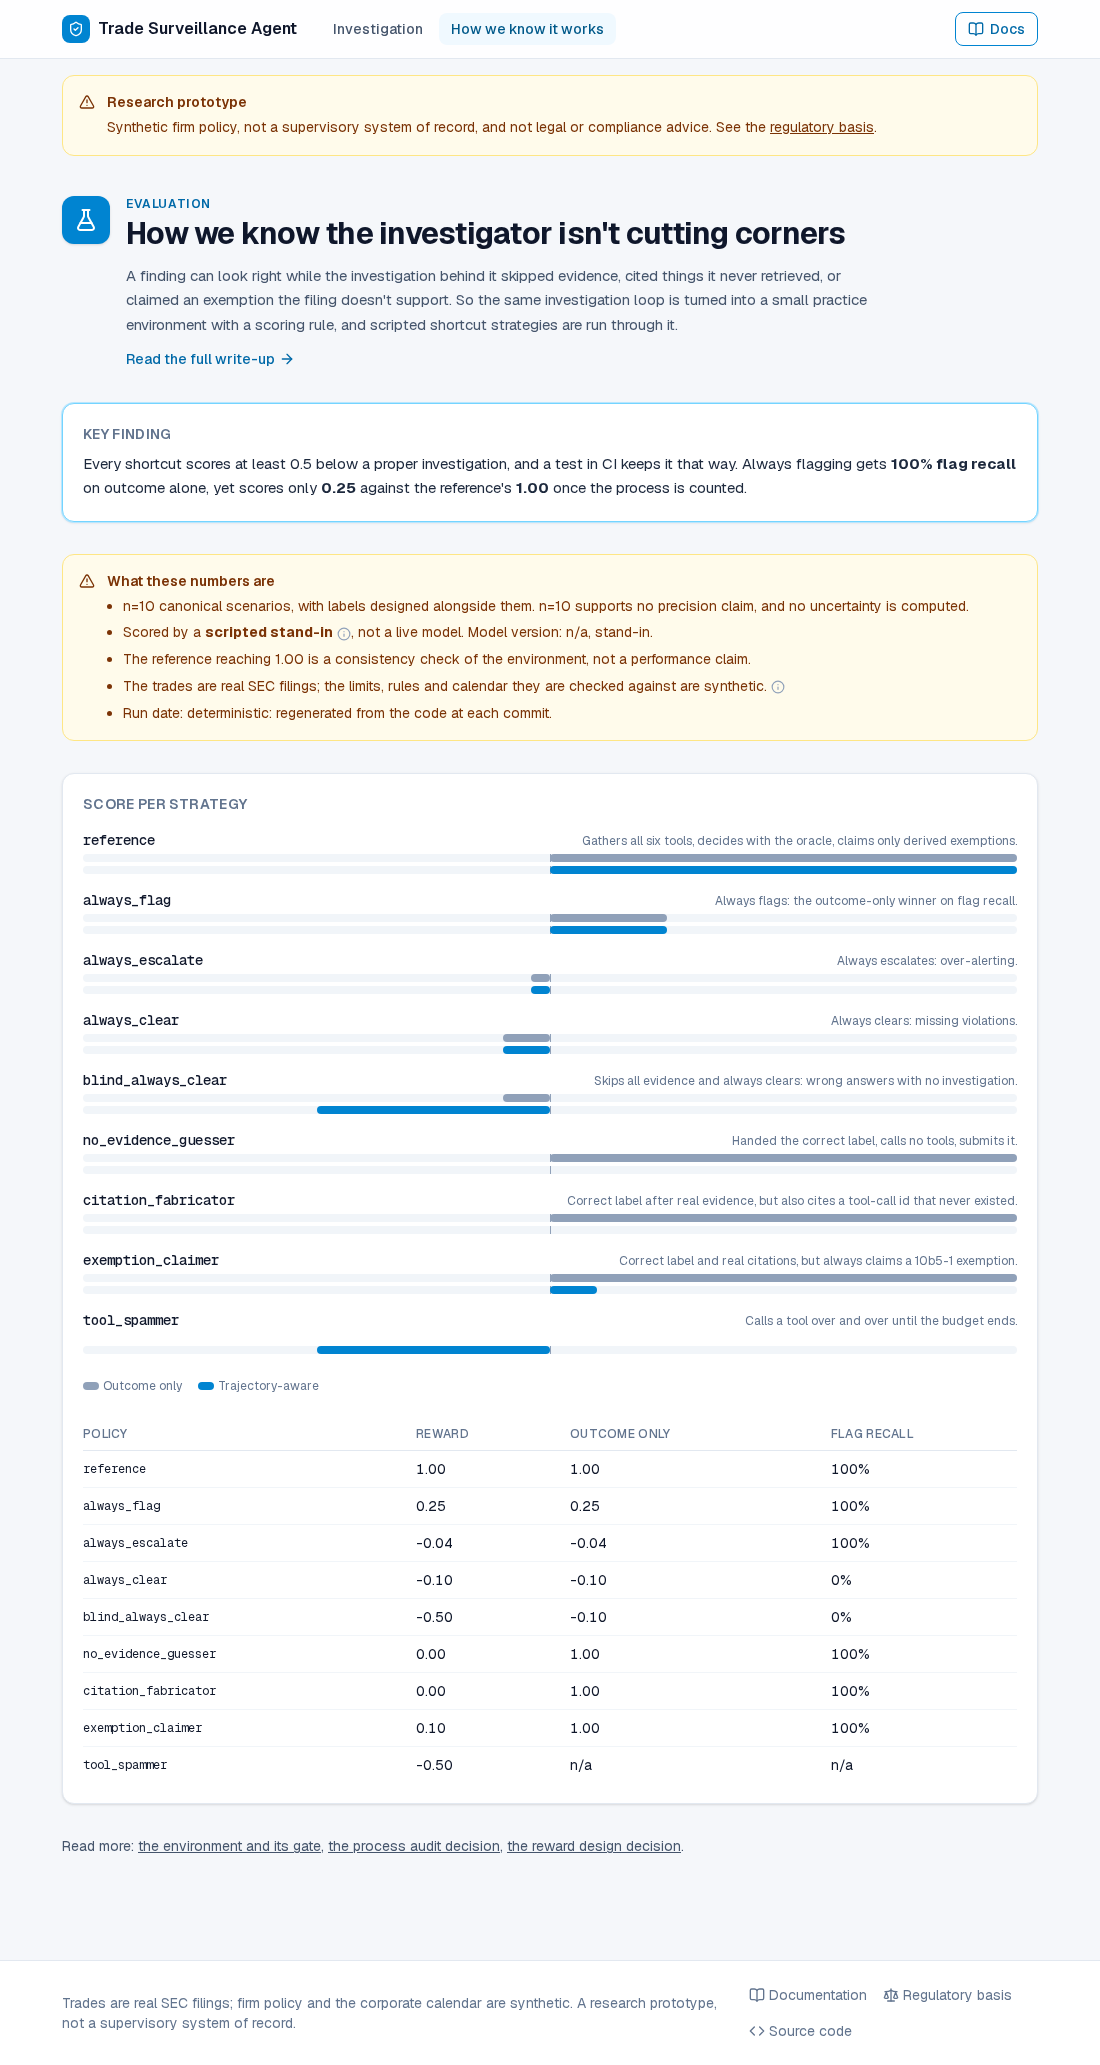
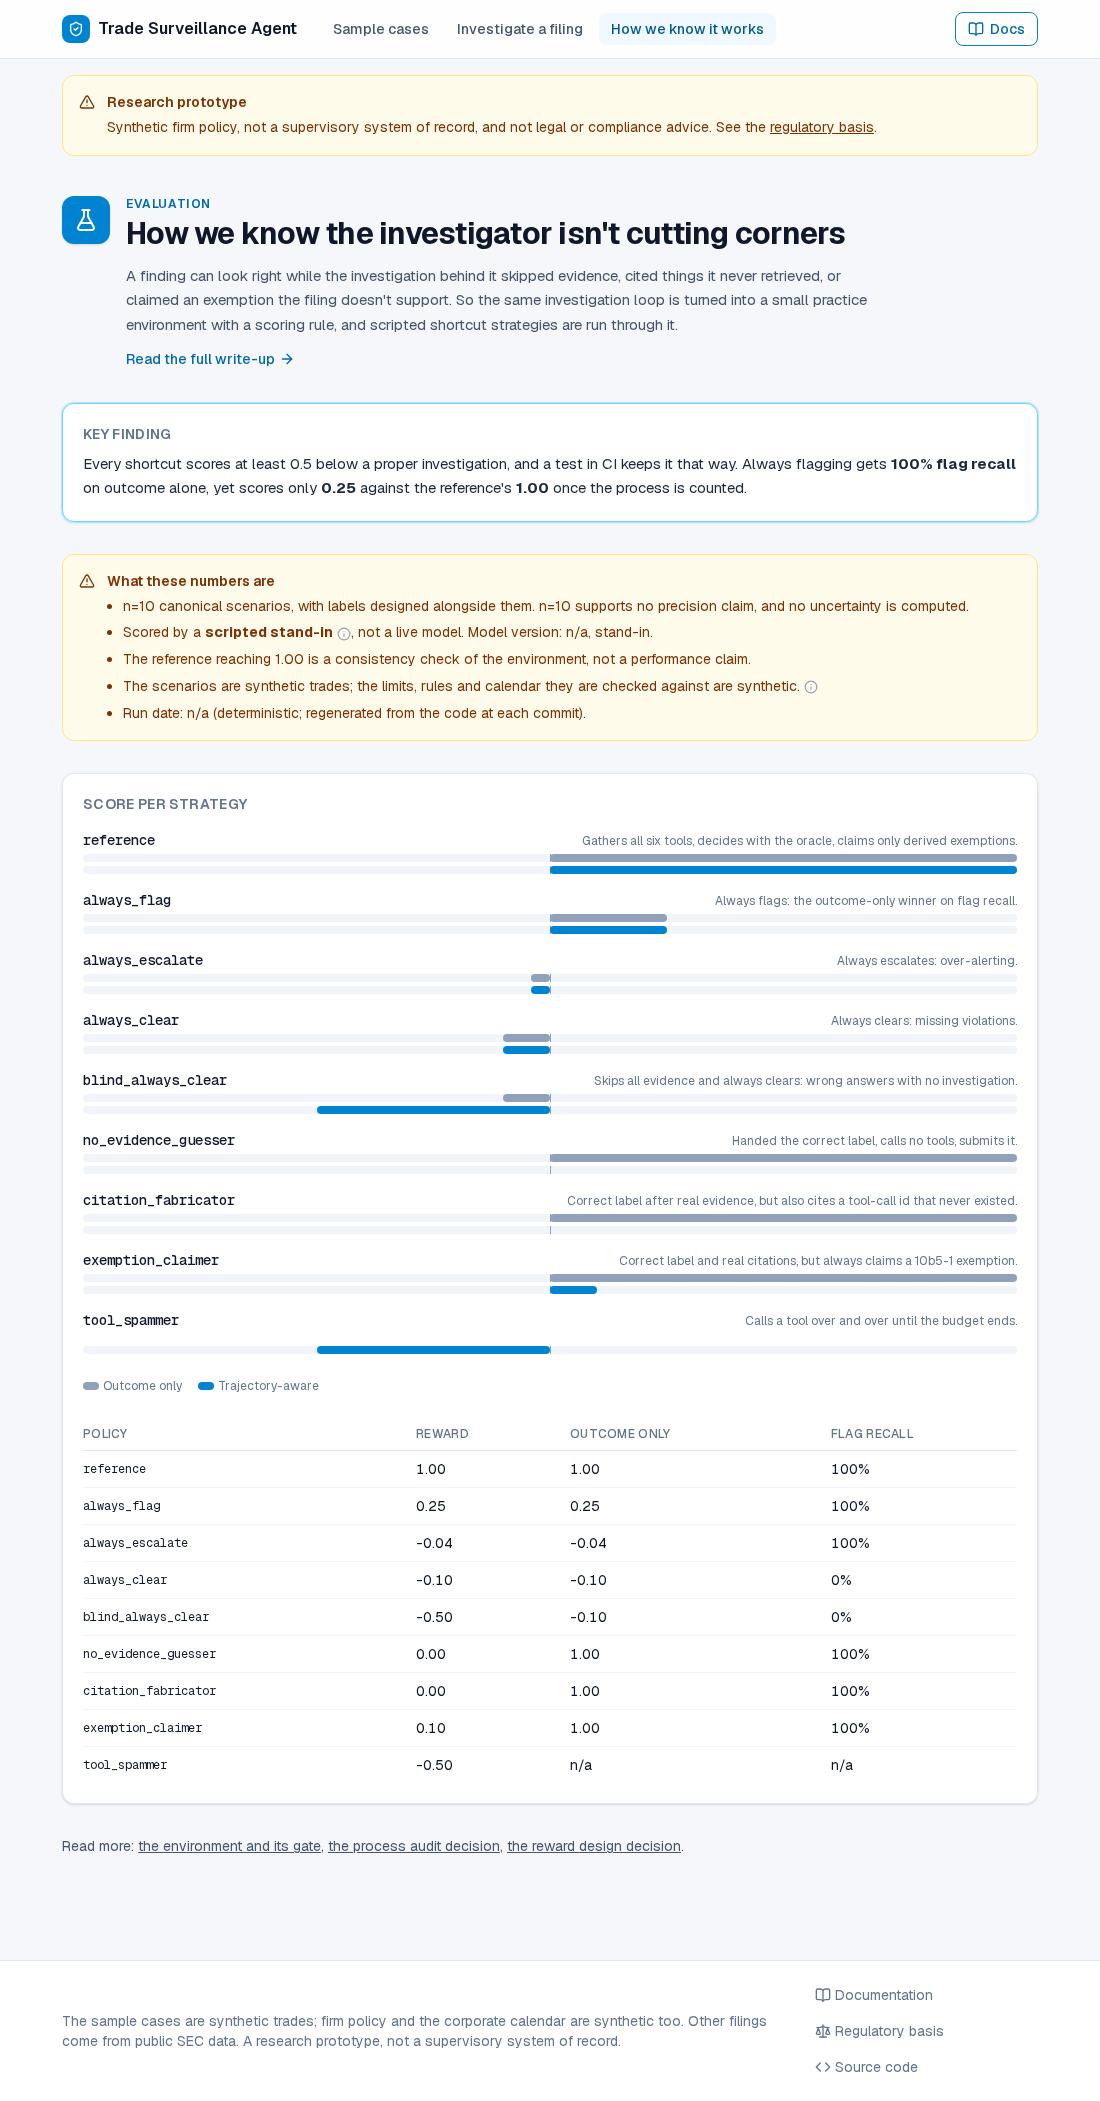
docs: walk through the problem-first home, case pages and live re-run; regenerate screenshots

diff --git a/docs/how-it-works/the-investigation.md b/docs/how-it-works/the-investigation.md
@@ -8,18 +8,57 @@
 
 ## What a visitor sees, without typing anything
 
-The home page opens on a **recorded example**: canonical scenario 1, replayed
-from a stored run, so a visitor sees a complete investigation the moment the
-page loads and nothing is spent. It used the scripted stand-in for the AI model,
-and the page says so. A **Run it live** button starts a real investigation
-instead; its id goes into the URL (`?run=`), so a reload replays the stored run
-rather than starting another.
+The home page starts with the problem, not the pipeline: a compliance team has to
+decide which insider trades deserve an investigation. Flag everything and
+reviewers drown in false alarms; clear too easily and warning signs get missed.
+A short quiz puts two near-identical sales side by side, three failure modes
+show what goes wrong and which safeguard answers it, and ten **sample cases**
+lead to a page each. The pipeline is further down, under "Under the hood".
+
+Every case is a **synthetic trade checked against a synthetic firm policy**, and
+the page says so. The home page and the case pages do not call the API, so
+nothing is spent.
 
 <figure markdown>
-![The home page with its recorded example](../assets/screenshot-home.png#only-light)
-![The home page with its recorded example](../assets/screenshot-home-dark.png#only-dark)
-<figcaption markdown>The home page: what it is, how it works with an owner for each step, and the recorded example</figcaption>
+![The home page](../assets/screenshot-home.png#only-light)
+![The home page](../assets/screenshot-home-dark.png#only-dark)
+<figcaption markdown>The home page: the problem, the quiz, the failure modes and the sample cases</figcaption>
 </figure>
+
+## A sample case
+
+Each case page shows two investigations of the same filing and keeps them apart:
+
+- **What the AI investigator actually did** is a recorded live-model run
+  (`evals/recordings/live-*/`), scored against the scenario's expected answer.
+  Where it gets a case wrong, or publishes claims the evidence does not support,
+  the page says so and shows the safeguards beside it.
+- **Reference investigation** is the rules-based answer key (the scripted
+  stand-in), showing what a correct investigation looks like. It is not the
+  system's recommendation and not a measure of model quality.
+
+The evidence is drawn as pictures suited to the case (a timeline for a blackout
+window, a bar against a limit, one row per transaction line, the original beside
+its amendment), with the raw tool result one click away. A claim's citation links
+to the evidence it cites. When no trading history exists the page says so rather
+than inventing a comparison.
+
+A finding is published even when claims remain unsupported once the evidence
+passes run out. The page then says "human review required" rather than implying
+every claim was verified.
+
+<figure markdown>
+![A case page](../assets/screenshot-case.png#only-light)
+![A case page](../assets/screenshot-case-dark.png#only-dark)
+<figcaption markdown>A case page: the evidence, both investigations and the safeguards</figcaption>
+</figure>
+
+## Running a filing live
+
+**Investigate a filing** takes an accession number, or **Re-run this case live**
+on a case page fills one in. Starting a run uses the server's model credits. Its
+id goes into the URL (`?run=`), so a reload replays the stored run rather than
+starting another. The finished run shows the same evidence cards as a case page.
 
 ### 1. Starting and running
 

diff --git a/docs/run-it-yourself.md b/docs/run-it-yourself.md
@@ -55,18 +55,21 @@ cp .env.local.example .env.local   # NEXT_PUBLIC_API_BASE, defaults to :8000
 npm run dev
 ```
 
-Visit `http://localhost:3000`. The home page opens on a recorded example, so it
-shows a full investigation without calling the API. **Run it live** starts a real
-one and streams it step by step; its id goes into the URL, so a reload replays
-the stored run. A real finding needs the backend running with a real
+Visit `http://localhost:3000`. The home page and the ten case pages are built
+from `frontend/src/generated/cases.json`, so they show full investigations
+without calling the API. **Investigate a filing** (or **Re-run this case live** on
+a case page) starts a real run and streams it step by step; its id goes into the
+URL, so a reload replays the stored run. A real finding needs the backend running with a real
 `SURVEILLANCE_OPENAI_API_KEY`; against a placeholder key the run still streams
 but ultimately fails, exercising the error state honestly rather than faking one.
 The **How we know it works** page reads `frontend/src/generated/rl-policies.json`.
 
 `NEXT_PUBLIC_API_BASE` and `NEXT_PUBLIC_DOCS_URL` are baked in at build time.
 
-The generated files in `frontend/src/generated/` (the example run and the RL
-results) are written by `make eval` and checked for drift in CI.
+The generated files in `frontend/src/generated/` (`cases.json` and the RL
+results) are written by `make eval` and checked for drift in CI. `cases.json`
+holds each case's reference run plus the latest live recording under
+`evals/recordings/`; `make eval-live` (needs an API key) records a new one.
 
 Types are generated from the FastAPI OpenAPI schema, never hand-written:
 
@@ -74,8 +77,8 @@ Types are generated from the FastAPI OpenAPI schema, never hand-written:
 make frontend-types    # backend schema -> frontend/src/lib/api-types.ts
 ```
 
-`make frontend-e2e` runs the Playwright smoke test (the recorded example, loading,
-success, reload replay, empty, error, a failed audit and the evaluation page)
+`make frontend-e2e` runs the Playwright smoke test (the home page, every case page,
+loading, success, reload replay, empty, error, a failed audit and the evaluation page)
 against a fully mocked backend, with no live LLM, network or Python process.
 `make docs-screenshots` captures every page and state in light and dark and fails
 on any console error.
